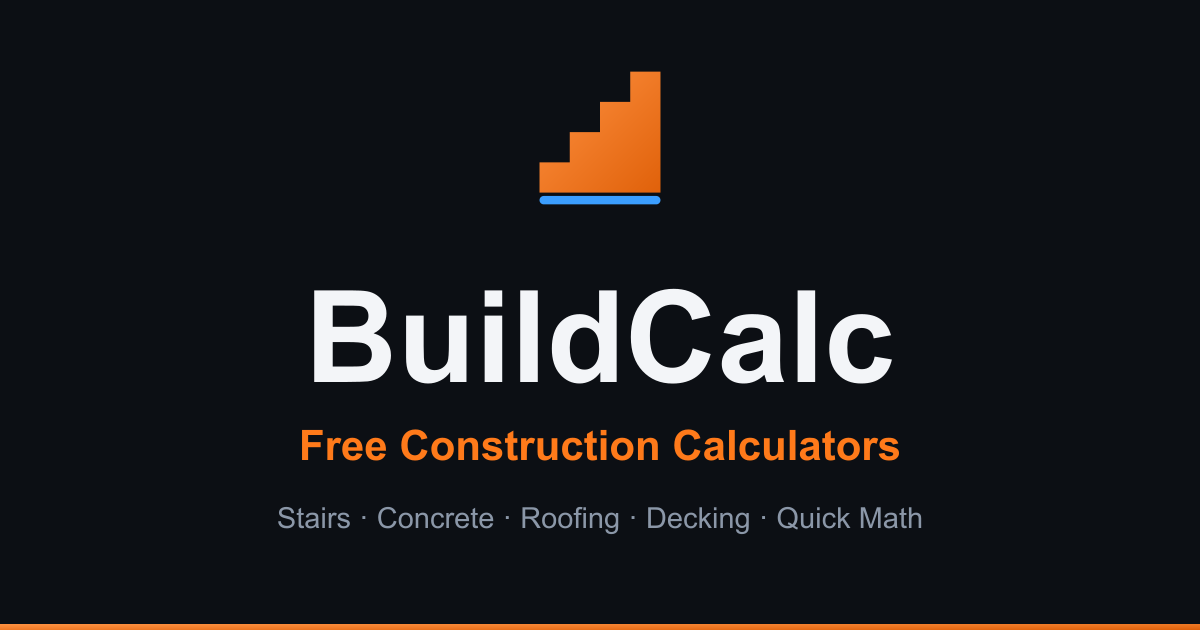
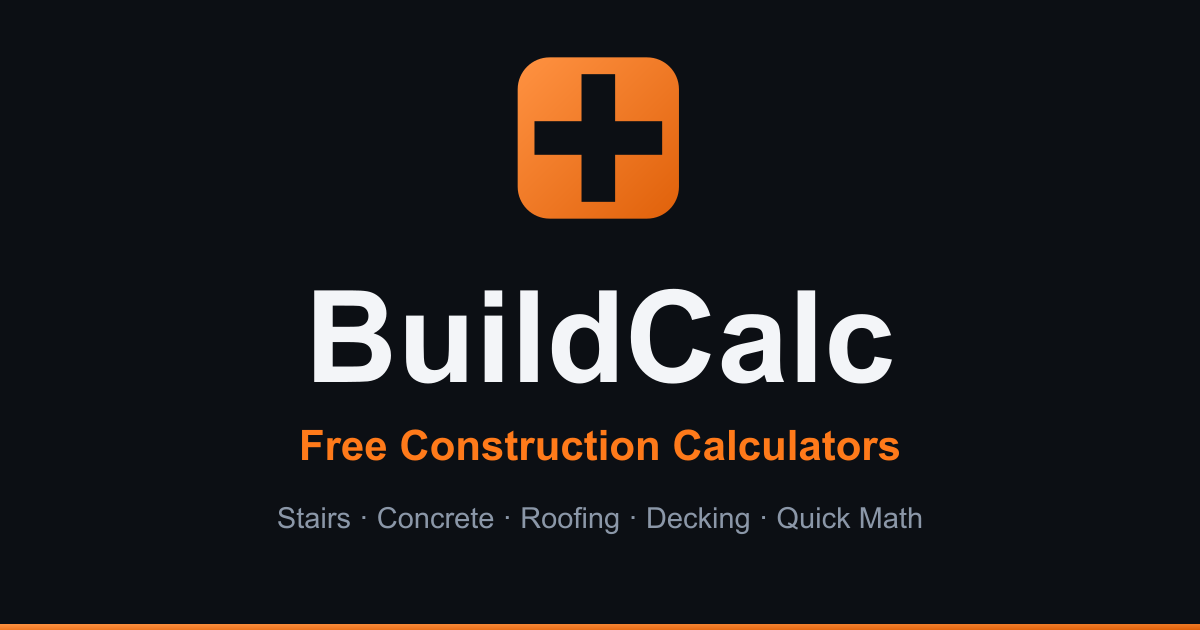
Refresh brand mark to a bold plus and ship the BuildCalcPro waitlist
- Replace the stair brand mark with a chunkier plus tile across the
  header glyph, PWA icons, favicon, and OG image (calculator-forward
  signal, less generic than a stair silhouette).
- Bump the header mark from h-5 to h-7 so it has real presence inside
  the badge.
- Add the /waitlist page with email + role + multi-select feature votes
  (Save jobs, PDF export, custom prices, multi-area, cut lists, crew
  share, AI helper). Posts JSON to NEXT_PUBLIC_WAITLIST_ENDPOINT
  (Formspree). Graceful fallback message if the endpoint is unset.
- Drop a "Coming in BuildCalcPro" CTA banner inside the concrete and
  stairs calculator result panels — the two highest-traffic modules.
- Plausible events: "Waitlist Click" (with source=<calc>) and
  "Waitlist Submit" (with features list + count) so we can see which
  calculators drive the most intent.

Changed region(s): [[0.4317, 0.0905, 0.5858, 0.3619]]

diff --git a/src/app/waitlist/WaitlistForm.tsx b/src/app/waitlist/WaitlistForm.tsx
@@ -1,0 +1,173 @@
+'use client';
+
+import { useState, type FormEvent } from 'react';
+import { Button } from '@/components/ui/Button';
+import { trackWaitlistSubmit } from '@/lib/analytics';
+
+const ENDPOINT = process.env.NEXT_PUBLIC_WAITLIST_ENDPOINT ?? '';
+
+type Feature = { id: string; label: string; hint: string };
+type Status = 'idle' | 'submitting' | 'success' | 'error';
+
+export function WaitlistForm({ features }: { features: Feature[] }) {
+  const [email, setEmail] = useState('');
+  const [picked, setPicked] = useState<Set<string>>(new Set());
+  const [role, setRole] = useState('');
+  const [status, setStatus] = useState<Status>('idle');
+  const [errorMsg, setErrorMsg] = useState('');
+
+  const toggle = (id: string) => {
+    setPicked((prev) => {
+      const next = new Set(prev);
+      if (next.has(id)) next.delete(id);
+      else next.add(id);
+      return next;
+    });
+  };
+
+  async function handleSubmit(e: FormEvent<HTMLFormElement>) {
+    e.preventDefault();
+    if (!ENDPOINT) {
+      setErrorMsg(
+        'Waitlist is not configured yet. Email hello@buildprocalc.com to be added manually.',
+      );
+      setStatus('error');
+      return;
+    }
+    setStatus('submitting');
+    setErrorMsg('');
+    try {
+      const featureList = [...picked];
+      const res = await fetch(ENDPOINT, {
+        method: 'POST',
+        headers: {
+          'Content-Type': 'application/json',
+          Accept: 'application/json',
+        },
+        body: JSON.stringify({
+          email,
+          role: role || 'unspecified',
+          features: featureList.join(', '),
+        }),
+      });
+      if (!res.ok) throw new Error(`HTTP ${res.status}`);
+      trackWaitlistSubmit(featureList);
+      setStatus('success');
+    } catch (err) {
+      setErrorMsg(
+        err instanceof Error ? err.message : 'Something went wrong — try again.',
+      );
+      setStatus('error');
+    }
+  }
+
+  if (status === 'success') {
+    return (
+      <div className="mt-6 rounded-2xl border border-ok/40 bg-ok/10 p-5">
+        <p className="text-base font-extrabold text-ink">You’re in.</p>
+        <p className="mt-1.5 text-sm leading-relaxed text-ink-dim">
+          We’ll email you when BuildCalcPro launches — likely once the waitlist
+          has enough votes to show what to build first. Until then, the free
+          calculators get the same love they always have.
+        </p>
+      </div>
+    );
+  }
+
+  return (
+    <form onSubmit={handleSubmit} className="mt-6 space-y-5">
+      <div className="card space-y-4 p-4">
+        <div>
+          <label htmlFor="waitlist-email" className="field-label">
+            Email
+          </label>
+          <input
+            id="waitlist-email"
+            type="email"
+            required
+            autoComplete="email"
+            value={email}
+            onChange={(e) => setEmail(e.target.value)}
+            placeholder="you@example.com"
+            className="mt-1.5 w-full rounded-xl border border-line bg-surface-2 px-4 py-3 text-base text-ink outline-none focus:border-brand"
+          />
+        </div>
+
+        <div>
+          <label htmlFor="waitlist-role" className="field-label">
+            I’m a… <span className="text-ink-faint">(optional)</span>
+          </label>
+          <select
+            id="waitlist-role"
+            value={role}
+            onChange={(e) => setRole(e.target.value)}
+            className="mt-1.5 w-full rounded-xl border border-line bg-surface-2 px-4 py-3 text-base text-ink outline-none focus:border-brand"
+          >
+            <option value="">Prefer not to say</option>
+            <option value="homeowner">Homeowner / DIYer</option>
+            <option value="apprentice">Apprentice / trade student</option>
+            <option value="contractor">Contractor / pro</option>
+            <option value="other">Other</option>
+          </select>
+        </div>
+      </div>
+
+      <div className="card p-4">
+        <p className="field-label">
+          Which BuildCalcPro features matter most to you?
+        </p>
+        <p className="mt-1 text-xs text-ink-faint">
+          Pick as many as you want. We ship the most-requested ones first.
+        </p>
+        <ul className="mt-3 space-y-2">
+          {features.map((f) => {
+            const checked = picked.has(f.id);
+            return (
+              <li key={f.id}>
+                <label
+                  className={`tap flex cursor-pointer items-start gap-3 rounded-xl border p-3 ${
+                    checked
+                      ? 'border-brand/60 bg-brand/10'
+                      : 'border-line bg-surface-2 active:bg-surface-3'
+                  }`}
+                >
+                  <input
+                    type="checkbox"
+                    className="mt-0.5 h-4 w-4 accent-[color:var(--tw-color-brand,#ff7a1a)]"
+                    checked={checked}
+                    onChange={() => toggle(f.id)}
+                  />
+                  <span className="leading-snug">
+                    <span className="block text-sm font-bold text-ink">
+                      {f.label}
+                    </span>
+                    <span className="block text-xs text-ink-dim">{f.hint}</span>
+                  </span>
+                </label>
+              </li>
+            );
+          })}
+        </ul>
+      </div>
+
+      {status === 'error' && (
+        <p className="rounded-xl border border-bad/40 bg-bad/10 px-4 py-3 text-sm text-bad">
+          {errorMsg}
+        </p>
+      )}
+
+      <Button
+        type="submit"
+        variant="primary"
+        fullWidth
+        disabled={status === 'submitting'}
+      >
+        {status === 'submitting' ? 'Joining…' : 'Join the waitlist'}
+      </Button>
+      <p className="px-1 text-xs text-ink-faint">
+        We’ll only email you about BuildCalcPro launches and the features you
+        voted on. No spam, unsubscribe any time.
+      </p>
+    </form>
+  );
+}

diff --git a/src/app/waitlist/page.tsx b/src/app/waitlist/page.tsx
@@ -1,0 +1,82 @@
+import type { Metadata } from 'next';
+import { SiteFooter } from '@/components/SiteFooter';
+import { WaitlistForm } from './WaitlistForm';
+
+export const metadata: Metadata = {
+  title: 'BuildCalcPro — Join the Waitlist',
+  description:
+    'Vote on the BuildCalcPro features that matter most — saved jobs, PDF estimates, custom local material prices, and more. Free to join the waitlist.',
+  alternates: { canonical: '/waitlist/' },
+};
+
+const FEATURES: { id: string; label: string; hint: string }[] = [
+  {
+    id: 'save-jobs',
+    label: 'Save & retrieve jobs by name',
+    hint: 'Pull up a quote from last week without re-entering everything.',
+  },
+  {
+    id: 'pdf-export',
+    label: 'Export estimates as PDF',
+    hint: 'Hand a clean printout to a client, lender, or spouse.',
+  },
+  {
+    id: 'custom-prices',
+    label: 'Custom local material prices',
+    hint: 'Use your supplier’s actual prices, not generic defaults.',
+  },
+  {
+    id: 'multi-area',
+    label: 'Multi-area / whole-house aggregation',
+    hint: 'Total a whole house’s drywall, paint or decking in one quote.',
+  },
+  {
+    id: 'cut-list',
+    label: 'Cut lists for lumber and sheet goods',
+    hint: 'Optimized cut diagrams to minimize waste.',
+  },
+  {
+    id: 'crew-share',
+    label: 'Share a job with your crew',
+    hint: 'Send the foreman a link to the same live estimate.',
+  },
+  {
+    id: 'ai-helper',
+    label: 'AI helper — describe the job in plain English',
+    hint: 'Type "10×12 patio with a 4-inch slab" and the calculator fills itself in.',
+  },
+];
+
+export default function WaitlistPage() {
+  return (
+    <div>
+      <header>
+        <p className="text-[11px] font-semibold uppercase tracking-[0.14em] text-brand-light">
+          BuildCalcPro
+        </p>
+        <h1 className="mt-1 text-2xl font-extrabold tracking-tight">
+          Join the waitlist
+        </h1>
+        <p className="mt-2 text-sm leading-relaxed text-ink-dim">
+          The free calculators stay free, forever. BuildCalcPro adds
+          heavy-duty features for serious DIYers and pros who want more than a
+          one-shot estimate. Vote on what gets built first — the most-requested
+          features ship first, and waitlist members get launch-day pricing.
+        </p>
+      </header>
+
+      <WaitlistForm features={FEATURES} />
+
+      <section className="mt-8 rounded-2xl border border-line bg-surface-1 p-4 text-sm leading-relaxed text-ink-dim">
+        <p className="font-bold text-ink">What stays free?</p>
+        <p className="mt-1.5">
+          Every calculator currently on the site, every long-tail guide, the
+          offline PWA, and the no-signup experience. BuildCalcPro is purely
+          additive — we will never paywall the existing math.
+        </p>
+      </section>
+
+      <SiteFooter />
+    </div>
+  );
+}

diff --git a/src/components/WaitlistCTA.tsx b/src/components/WaitlistCTA.tsx
@@ -1,0 +1,36 @@
+'use client';
+
+import Link from 'next/link';
+import { ArrowRightIcon } from './icons';
+import { trackWaitlistClick } from '@/lib/analytics';
+
+/**
+ * Small banner card that sits inside calculator result panels, inviting
+ * visitors to vote on upcoming Pro features. Links to /waitlist where the
+ * actual email + feature-vote form lives — keeps the calculator page focused
+ * on the result, and keeps form state out of every module.
+ *
+ * `source` identifies which calculator the click came from, so the Plausible
+ * funnel can see which calculators drive the most waitlist intent.
+ */
+export function WaitlistCTA({ source }: { source: string }) {
+  return (
+    <div className="rounded-2xl border border-brand/35 bg-brand/10 p-4">
+      <p className="text-[11px] font-semibold uppercase tracking-[0.1em] text-brand-light">
+        Coming in BuildCalcPro
+      </p>
+      <p className="mt-1.5 text-sm leading-relaxed text-ink-dim">
+        Save jobs, export estimates as PDF, set custom local material prices.
+        Vote on what to build first.
+      </p>
+      <Link
+        href="/waitlist/"
+        onClick={() => trackWaitlistClick(source)}
+        className="tap mt-3 inline-flex items-center justify-center gap-2 rounded-2xl bg-brand px-5 py-3 text-sm font-bold text-surface-0 active:bg-brand-dark"
+      >
+        Join the waitlist
+        <ArrowRightIcon className="h-4 w-4" />
+      </Link>
+    </div>
+  );
+}

diff --git a/src/app/concrete/ConcreteCalculator.tsx b/src/app/concrete/ConcreteCalculator.tsx
@@ -9,6 +9,7 @@ import { useCalculatorStore } from '@/store/useCalculatorStore';
 import { ActionCard } from '@/components/ActionCard';
 import { ConcreteDiagram } from '@/components/ConcreteDiagram';
 import { StarterHint } from '@/components/StarterHint';
+import { WaitlistCTA } from '@/components/WaitlistCTA';
 import { BucketIcon, LevelIcon, TrowelIcon } from '@/components/icons';
 import { Button } from '@/components/ui/Button';
 import { NumberField } from '@/components/ui/NumberField';
@@ -334,6 +335,10 @@ export function ConcreteCalculator() {
       {/* Monetization surface */}
       <div className="mt-4">
         <ActionCard module="Concrete" items={CONCRETE_TOOLS} />
+      </div>
+
+      <div className="mt-4">
+        <WaitlistCTA source="concrete" />
       </div>
 
       <p className="mt-4 px-1 text-xs text-ink-faint">

diff --git a/src/app/stairs/StairsCalculator.tsx b/src/app/stairs/StairsCalculator.tsx
@@ -9,6 +9,7 @@ import { useCalculatorStore } from '@/store/useCalculatorStore';
 import { ActionCard } from '@/components/ActionCard';
 import { StairDiagram } from '@/components/StairDiagram';
 import { StarterHint } from '@/components/StarterHint';
+import { WaitlistCTA } from '@/components/WaitlistCTA';
 import { ClampIcon, SawIcon, SquareIcon } from '@/components/icons';
 import { Button } from '@/components/ui/Button';
 import { FractionalInput } from '@/components/ui/FractionalInput';
@@ -235,6 +236,10 @@ export function StairsCalculator() {
       {/* Monetization surface */}
       <div className="mt-4">
         <ActionCard module="Stairs" items={STAIR_TOOLS} />
+      </div>
+
+      <div className="mt-4">
+        <WaitlistCTA source="stairs" />
       </div>
 
       <p className="mt-4 px-1 text-xs text-ink-faint">

diff --git a/src/lib/analytics.ts b/src/lib/analytics.ts
@@ -55,3 +55,16 @@ export function trackCalculate(module: string): void {
 export function trackAffiliateClick(module: string, product: string): void {
   track('Affiliate Click', { module, product });
 }
+
+/** Fired when a visitor clicks the "Join Pro waitlist" CTA from a calculator. */
+export function trackWaitlistClick(source: string): void {
+  track('Waitlist Click', { source });
+}
+
+/** Fired when the waitlist form is successfully submitted. */
+export function trackWaitlistSubmit(features: string[]): void {
+  track('Waitlist Submit', {
+    features: features.length ? features.join(',') : 'none',
+    count: String(features.length),
+  });
+}

diff --git a/src/components/icons.tsx b/src/components/icons.tsx
@@ -2,13 +2,13 @@
 
 type IconProps = { className?: string };
 
-/** Solid stepped-staircase brand glyph (matches the PWA icon). */
+/** Bold plus glyph — matches the PWA icon's calculator-forward mark. */
 export function BrandMark({ className }: IconProps) {
   return (
     <svg viewBox="0 0 512 512" className={className} aria-hidden="true">
       <path
         fill="currentColor"
-        d="M116 396V324h72v-72h72v-72h72v-72h72v288z"
+        d="M216 104 H296 V216 H408 V296 H296 V408 H216 V296 H104 V216 H216 Z"
       />
     </svg>
   );

diff --git a/src/components/AppHeader.tsx b/src/components/AppHeader.tsx
@@ -15,7 +15,7 @@ export function AppHeader() {
       <div className="mx-auto flex h-14 max-w-3xl items-center justify-between px-4">
         <div className="flex items-center gap-2.5">
           <span className="grid h-9 w-9 place-items-center rounded-xl bg-surface-2 text-brand">
-            <BrandMark className="h-5 w-5" />
+            <BrandMark className="h-7 w-7" />
           </span>
           <div className="leading-tight">
             <div className="text-[15px] font-extrabold tracking-tight">
